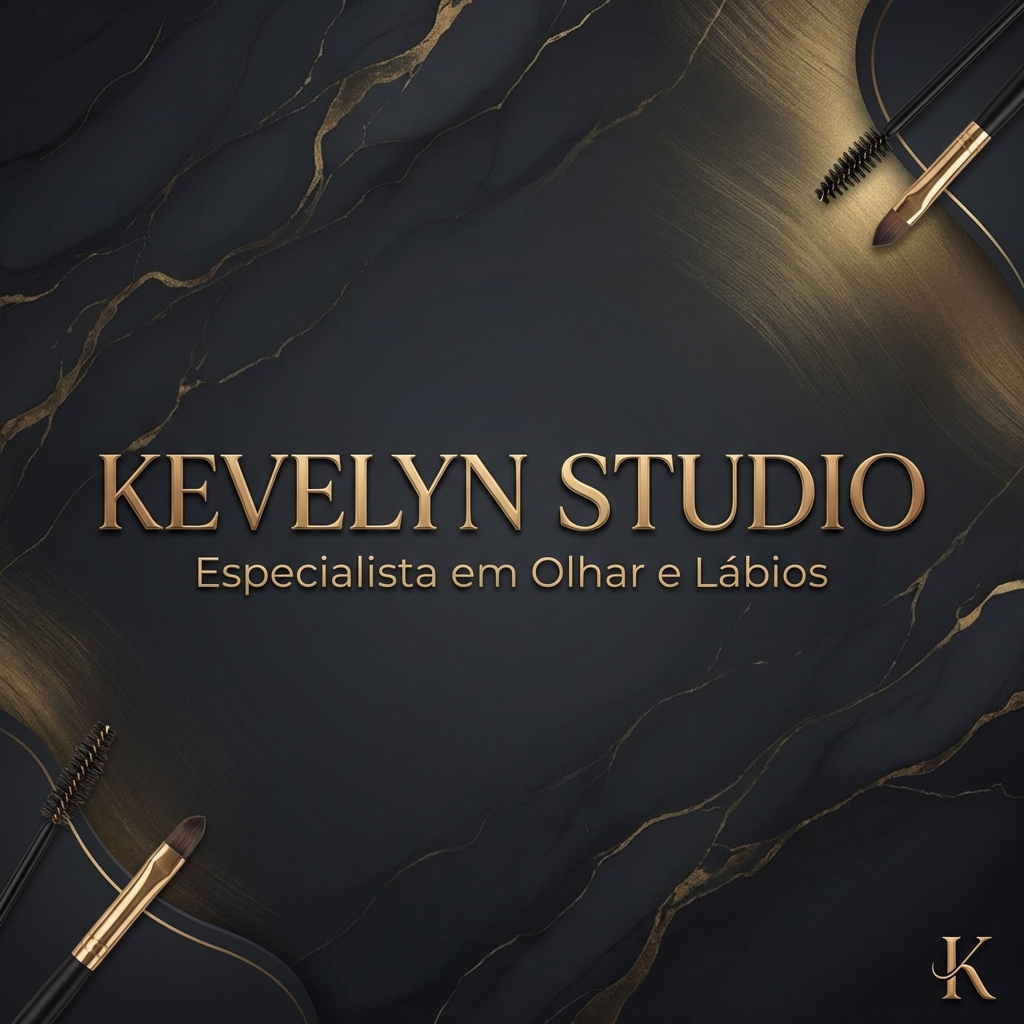
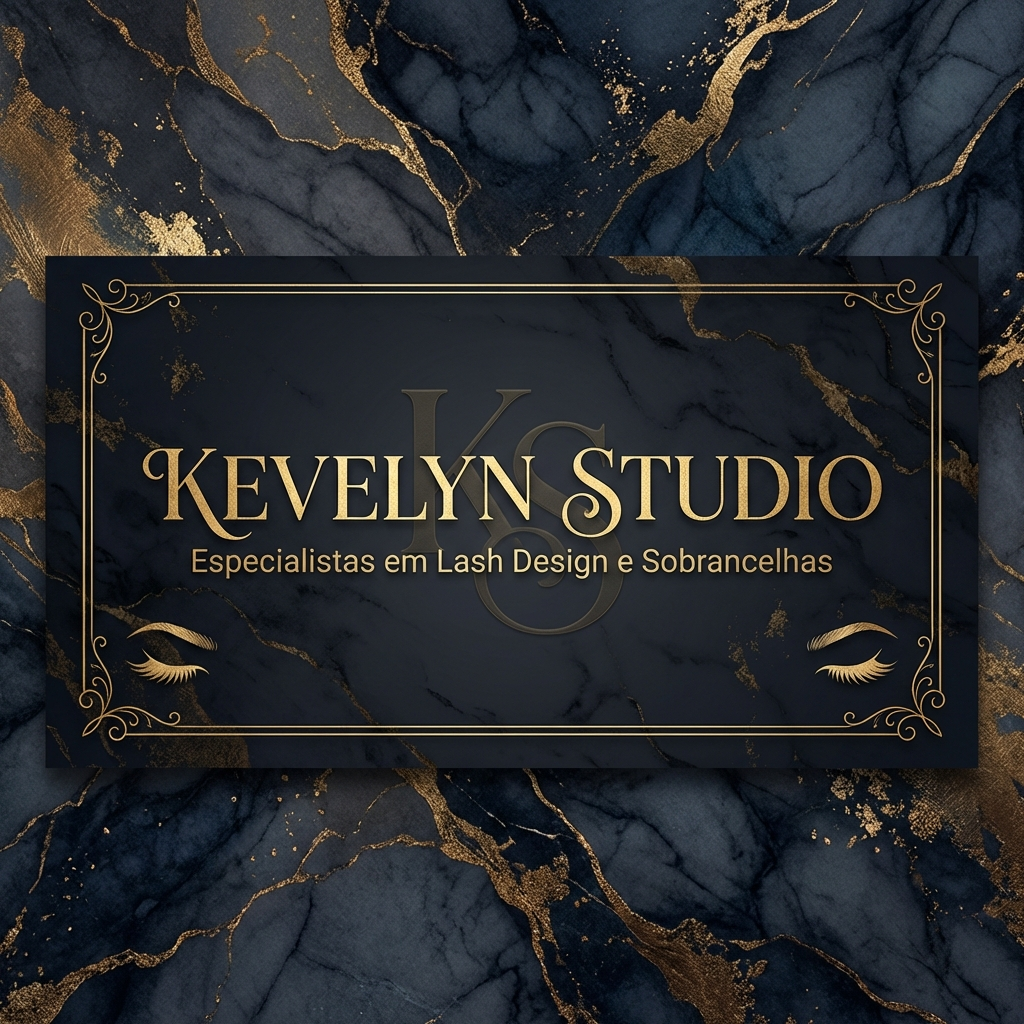
fix: update metadata and OG image to Lash Design & Brows only

diff --git a/src/app/layout.tsx b/src/app/layout.tsx
@@ -20,16 +20,16 @@ const outfit = Outfit({
 });
 
 export const metadata: Metadata = {
-  title: "Kevelyn Studio | Especialista em Olhar e Lábios",
-  description: "Realce sua beleza natural com procedimentos de alto padrão. Micropigmentação, Lash Lifting, Brow Lamination e mais.",
+  title: "Kevelyn Studio | Lash Design e Sobrancelhas",
+  description: "Studio especializado em Lash Design e Sobrancelhas. Realce sua beleza natural com nossas especialistas de alto padrão.",
   icons: {
     icon: "/favicon.png", // Fallback
     shortcut: "/favicon.png",
     apple: "/favicon.png",
   },
   openGraph: {
-    title: "Kevelyn Studio | Especialista em Olhar e Lábios",
-    description: "Realce sua beleza natural com procedimentos de alto padrão.",
+    title: "Kevelyn Studio | Lash Design e Sobrancelhas",
+    description: "Studio especializado em Lash Design e Sobrancelhas.",
     url: "https://kevelynstudio.paulomoraes.cloud",
     siteName: "Kevelyn Studio",
     images: [
